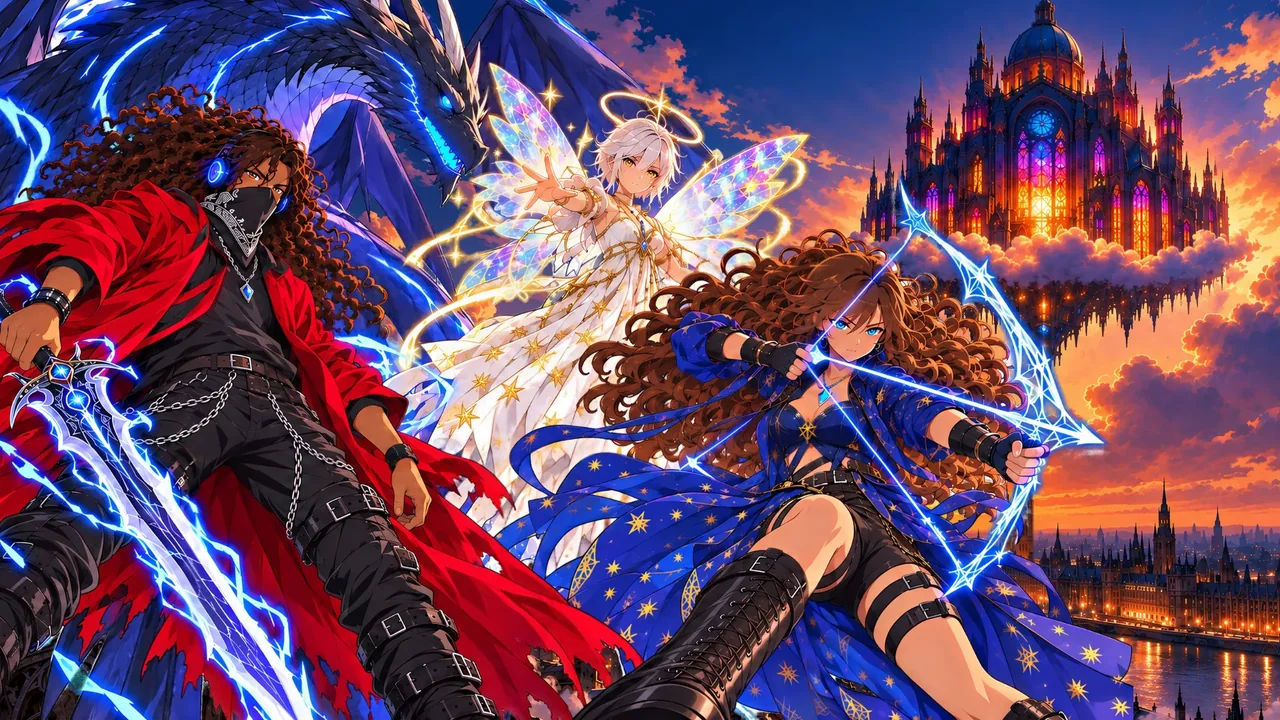
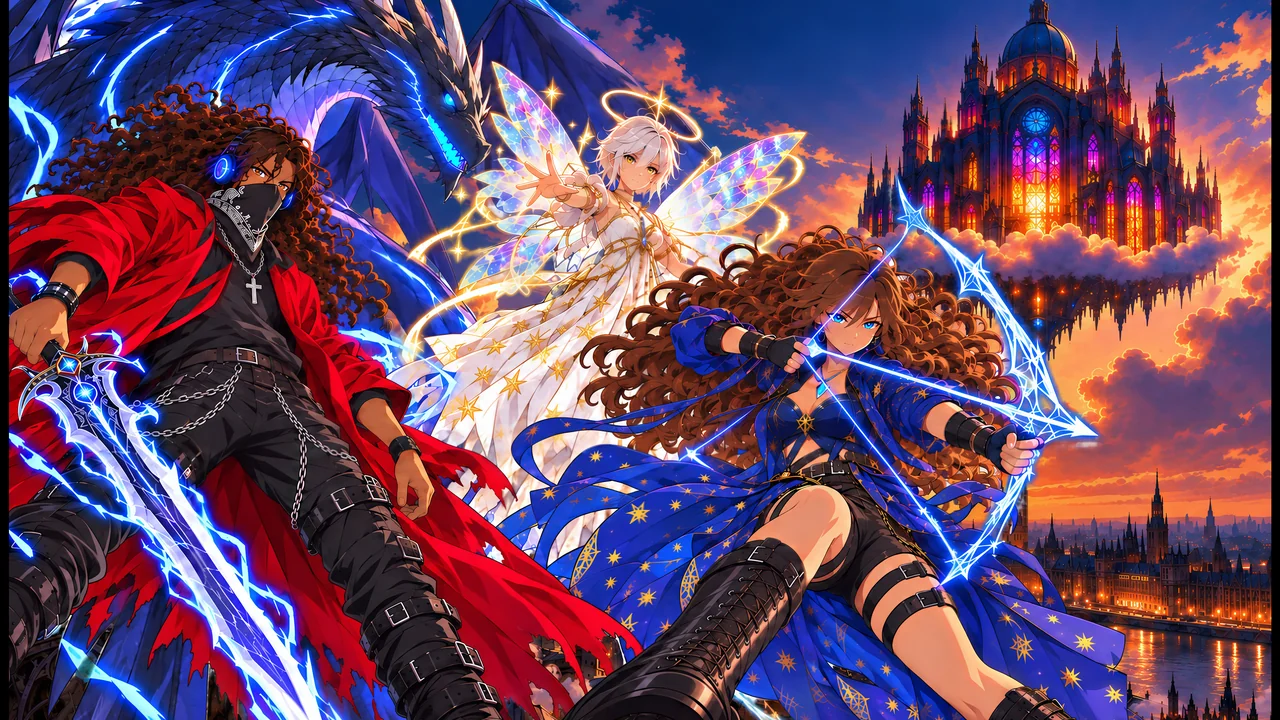
Sharpen the character-creator concept and swap the hero to v2
The creator concept is rebuilt from the 4096px source at 1920x1095 (the
1024px copy was soft on desktop); the front-page intrinsic size follows.
The hero takes the v2 render, which replaces Goaden's blue gem pendant
with his silver cross; same composition, so the alt text still holds.

diff --git a/index.html b/index.html
@@ -112,7 +112,7 @@
 <a class="panel curiosity-card" href="/lintels"><span class="curiosity-art curiosity-art--lintel"><img src="/images/codex-refresh/lintel-drift.webp" alt="A fluffy Lintel with blue eyes, curled white cloud fur, pointed ears and little flowers." width="280" height="280" loading="lazy" decoding="async"></span><div class="curiosity-copy"><p class="eyebrow">A little warmth</p><h3>Meet the Lintels</h3><p>The cloud-like creatures that give London a gentler side.</p><span class="text-link">Get acquainted →</span></div></a>
 </div><details id="codex-archive"><summary>Open the complete searchable Codex</summary><div class="codex-controls"><label for="searchBox">Search characters, places, factions and more</label><input type="search" class="search-box" id="searchBox" placeholder="Try Emily, Duskkin or Sanctuary…"><div class="filter-buttons"><button class="filter-btn active" type="button" data-filter="all" aria-pressed="true">All</button><button class="filter-btn" type="button" data-filter="character" aria-pressed="false">Characters</button><button class="filter-btn" type="button" data-filter="faction" aria-pressed="false">Factions</button><button class="filter-btn" type="button" data-filter="creature" aria-pressed="false">Creatures</button><button class="filter-btn" type="button" data-filter="item" aria-pressed="false">Items</button><button class="filter-btn" type="button" data-filter="location" aria-pressed="false">Locations</button><button class="filter-btn" type="button" data-filter="concept" aria-pressed="false">Concepts</button></div></div><a href="/world-map" class="map-hero-card" id="mapHeroCard"><div><h3>Explore the world map ↗</h3><p>The places that connect these stories.</p></div></a><p class="caption" id="codex-count" role="status" aria-live="polite"></p><div class="lore-grid" id="loreGrid"></div><noscript><p>Explore <a href="/goaden-reeves">Goaden</a>, <a href="/ashai-bennet">Ashai</a>, <a href="/emily-grimm">Emily</a> and <a href="/gabriel">Gabriel</a>, or use the <a href="/world-map">world map</a>. Enable JavaScript to search the complete Codex.</p></noscript></details><div class="actions"><a class="text-link" href="/world-map">World map →</a><a class="text-link" href="/history">The history of London →</a><a class="text-link" href="/animantasy">What is Animantasy? →</a></div></section></div>
 <section class="section" id="game"><div class="section-head"><div><p class="eyebrow">Make yourself at home</p><h2>Your own little cloud.</h2></div><a class="text-link" href="/soulsip/">Looking for Magical Soul Sip? Clock in ↗</a></div><div class="game-launcher"><div class="game-welcome"><div class="game-lintel-art"><img src="/images/codex-refresh/lintel-drift.webp" alt="Your little cloud companion: a blue-eyed, flower-flecked Lintel with soft white fur." width="280" height="280" loading="lazy" decoding="async"></div><div class="game-launch-copy"><h3>Lintelgotchi</h3><p>Care for your own <a href="/lintels">Lintel</a>. The game loads here when you choose to play.</p><p class="caption" id="game-status" role="status">Opens the existing Lintelgotchi game. Your saved game stays on its original site.</p><button class="button" data-load-game type="button">Play Lintelgotchi ▷</button></div></div><iframe hidden id="gameIframe" title="Lintelgotchi virtual pet game" data-src="https://thesecretsofsilverclouds.github.io/Lintelgotchi/" allowfullscreen></iframe><div class="actions" data-game-controls hidden><button class="button secondary" type="button" data-fullscreen-game>Open fullscreen</button><a class="text-link" href="https://thesecretsofsilverclouds.github.io/Lintelgotchi/" target="_blank" rel="noopener noreferrer">Open in new tab ↗</a></div><noscript><a href="https://thesecretsofsilverclouds.github.io/Lintelgotchi/">Play Lintelgotchi</a></noscript></div></section>
-<div class="band"><section class="section arpg-feature" id="arpg" aria-labelledby="arpg-title"><div class="arpg-intro"><div><p class="eyebrow">The next chapter</p><h2 id="arpg-title">From the page<br>into your hands.</h2></div><div><span class="status development">In development</span><h3>The Silver Clouds action RPG</h3><p>An action RPG set in the Silver Clouds universe is in development with Xtended Realities. Follow the project as this London takes another form.</p><div class="actions"><a class="button secondary" href="/partners/#game">Explore the game project →</a><a class="text-link" href="/updates/">Development updates →</a></div></div></div><figure class="arpg-concept"><a href="/images/experience/arpg-duskkin-character-creator.webp" aria-label="View the full Duskkin character-creator concept"><img src="/images/experience/arpg-duskkin-character-creator.webp" width="1024" height="584" loading="lazy" decoding="async" alt="Duskkin character-creator concept: a red-haired Duskkin woman in a black face mask and black-and-red armour threaded with glowing blood stands before Big Ben beneath a full moon, with preset portraits to her left and appearance sliders, eye-colour swatches and markings to her right."></a><figcaption><div><span class="status concept">Concept art</span><p>Duskkin character-creator study · Visual development, not actual gameplay.</p></div><a class="text-link" href="/images/experience/arpg-duskkin-character-creator.webp">View full image ↗</a></figcaption></figure></section></div>
+<div class="band"><section class="section arpg-feature" id="arpg" aria-labelledby="arpg-title"><div class="arpg-intro"><div><p class="eyebrow">The next chapter</p><h2 id="arpg-title">From the page<br>into your hands.</h2></div><div><span class="status development">In development</span><h3>The Silver Clouds action RPG</h3><p>An action RPG set in the Silver Clouds universe is in development with Xtended Realities. Follow the project as this London takes another form.</p><div class="actions"><a class="button secondary" href="/partners/#game">Explore the game project →</a><a class="text-link" href="/updates/">Development updates →</a></div></div></div><figure class="arpg-concept"><a href="/images/experience/arpg-duskkin-character-creator.webp" aria-label="View the full Duskkin character-creator concept"><img src="/images/experience/arpg-duskkin-character-creator.webp" width="1920" height="1095" loading="lazy" decoding="async" alt="Duskkin character-creator concept: a red-haired Duskkin woman in a black face mask and black-and-red armour threaded with glowing blood stands before Big Ben beneath a full moon, with preset portraits to her left and appearance sliders, eye-colour swatches and markings to her right."></a><figcaption><div><span class="status concept">Concept art</span><p>Duskkin character-creator study · Visual development, not actual gameplay.</p></div><a class="text-link" href="/images/experience/arpg-duskkin-character-creator.webp">View full image ↗</a></figcaption></figure></section></div>
 <section class="section" id="blog"><div class="section-head"><div><p class="eyebrow">Built in public</p><h2>The world keeps growing.</h2></div><a class="text-link" href="/updates/">All updates &amp; archive →</a></div><div class="updates-list"><article><time datetime="2026-09-16">16 September 2026 · Creative development</time><h3>A new look into Silver Clouds</h3><p>Goaden and Ashai above London, Gabriel beneath a crimson halo, and a closer look at Emily’s story.</p><a class="text-link" href="#characters">Meet the cast →</a></article><article><time datetime="2026-09-12">12 September 2026 · Worldstream development</time><h3>More life between the stories</h3><p>Development continues on the people, places and character presentation in Worldstream.</p><a class="text-link" href="/worldstream/app/">Visit the public experience ↗</a></article><article><time datetime="2026-09-16">September 2026 · Game development</time><h3>A new way to enter London</h3><p>The action RPG is in development with Xtended Realities.</p><a class="text-link" href="/partners/#game">About the game project →</a></article></div><details><summary>Earlier posts from Silent</summary><div id="blogPosts" class="updates-list"></div></details><div class="actions"><a class="text-link" href="https://www.linkedin.com/in/silent-silver-3b8312137/">Follow Silent on LinkedIn ↗</a></div></section>
 <div class="band"><section class="section grid two"><div><p class="eyebrow">For creative partners</p><h2>Build the next chapter.</h2><p>Explore the work, the world and the game project. Start a conversation about publishing, games, screen or licensing.</p><a class="button secondary" href="/partners/">Explore partnership opportunities →</a></div><div><p class="eyebrow">For the people who found us</p><h2>Stay close to the story.</h2><p>Talk theories, meet fellow readers and be part of what comes next.</p><div class="actions"><a class="button secondary" href="https://discord.gg/x5mZqWFZn7">Join the community ↗</a><a class="text-link" href="https://ko-fi.com/secretsofsilverclouds">Support on Ko-fi ↗</a></div></div></section></div>
 <section class="section" id="contact"><p class="eyebrow">Get in touch</p><h2>There’s always another conversation.</h2><p>For readers, collaborators and anyone curious about Silver Clouds.</p><a class="text-link" href="mailto:thesecretsofsilverclouds@gmail.com">thesecretsofsilverclouds@gmail.com ↗</a><div class="actions"><button class="button secondary" type="button" data-load-contact>Open the contact form</button><a class="text-link" href="https://docs.google.com/forms/d/e/1FAIpQLSfYUSxpdGWwZKXw5Bd9KxAKDlyUveBH6rCDCvzIQoMgPoWKWA/viewform?usp=dialog">Open in a new page ↗</a></div><p class="caption" style="margin-top:16px">The form is provided by Google and loads only when opened.</p><div class="contact-form"><iframe id="contact-frame" title="Contact Silent Silver through Google Forms" hidden data-src="https://docs.google.com/forms/d/e/1FAIpQLSfYUSxpdGWwZKXw5Bd9KxAKDlyUveBH6rCDCvzIQoMgPoWKWA/viewform?usp=dialog"></iframe></div></section></main><footer class="site-footer"><div class="footer-grid"><div class="footer-brand"><a class="wordmark" href="/"><small>The secrets of</small><span>Silver Clouds</span></a><p>A world by Silent Silver.<br>Different skies. Same soul.</p></div>
